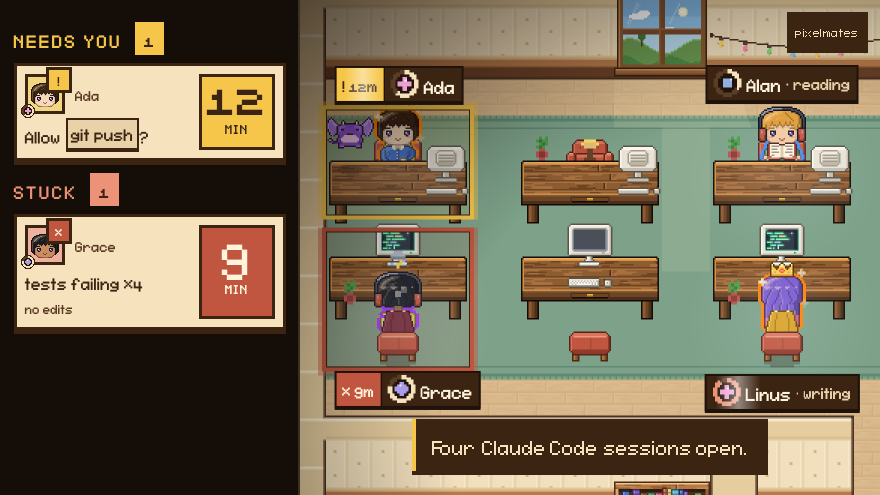
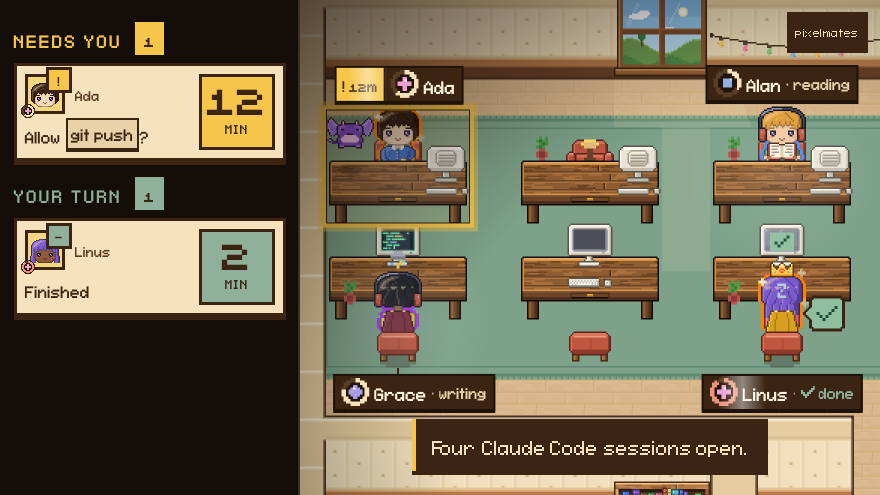
Show 1.0.5 in the README: new story GIF, rail shots, discovery keywords
The story GIF and the rail shot now show the question bubble and Your turn.
The README leads with the job (which session waits on you, and what it asked),
lists the features above the fold and adds a section for people who want to
hack on it. npm keywords match the GitHub topics.

diff --git a/README.md b/README.md
@@ -1,56 +1,58 @@
 # pixelmates
 
-Your Claude Code sessions as a pixel office. The crew keeps its names and levels between restarts, and a lit desk means a session is waiting on you.
+[![npm](https://img.shields.io/npm/v/@pixelmates/cli)](https://www.npmjs.com/package/@pixelmates/cli) [![MIT](https://img.shields.io/badge/license-MIT-green)](LICENSE) ![Node 22+](https://img.shields.io/badge/node-22%2B-blue)
+
+See which Claude Code session is waiting on you and what it asked. pixelmates draws every session, from every folder, as a character in a pixel office in your browser. The server runs on 127.0.0.1 and sends nothing off your machine.
 
 ```
 npx @pixelmates/cli
 ```
 
 <p align="center">
-  <img src="docs/images/story.gif" alt="Rail: Ada waited 12 minutes on Allow git push, Grace stuck on failing tests; Alan asks a question and his desk lights; Ada ships a PR, +120, level 13; P masks the text." width="880">
+  <img src="docs/images/story.gif" alt="Ada waited 12 minutes on Allow git push. Linus is done, a check beside his head, under Your turn. Alan ends his turn asking Start the week on Monday or Sunday? and a gold question mark appears beside his head. Ada ships a PR, +120, level 13. P masks the text." width="880">
 </p>
 
-pixelmates is a fork of [pixel-agents](https://github.com/pixel-agents-hq/pixel-agents) by Pablo De Lucca (MIT). The engine, the hooks and the layout editor are his work; the art is redrawn by code in this fork.
+Fork of [pixel-agents](https://github.com/pixel-agents-hq/pixel-agents) by Pablo De Lucca (MIT). The engine, the hooks and the layout editor are his work; the art is redrawn by code in this fork.
+
+## What it shows
+
+- **Needs you**: a permission prompt names its command; a question shows its own words, including one asked in plain text at the end of a turn. The desk lights up.
+- **Your turn**: a session that finished sits in its own list with a check beside its head. Its desk stays dark.
+- **Stuck, looping, stalled**: named in the rail, with the minutes.
+- **Inspector**: the whole question, then context, model, branch, cost, helpers and workflow phases.
+- **A crew**: names and levels survive restarts. XP comes only from commits, PRs, merges and green tests.
+- **P** masks every session string before you share your screen.
+- **A plugin** gives Claude read-only tools over your past sessions: "what did I ship this week?"
 
 ## Install and run
 
-Open the URL it prints (installed with `npm i -g @pixelmates/cli`, the command is `pixelmates`). The token in it is a secret. The server binds 127.0.0.1 and keeps its roster, layout, token and port in `~/.pixelmates/`.
+Open the URL it prints. The token in it is a secret. Installed with `npm i -g @pixelmates/cli`, the command is `pixelmates`. Roster, layout, token and port live in `~/.pixelmates/`.
 
-If you say yes at the consent prompt, it also adds a hook entry to `~/.claude/settings.json`, backed up once to `settings.json.pixelmates.backup`. Undo it with "Instant Detection (Hooks)" in Settings.
+If you say yes at the consent prompt, it adds a hook entry to `~/.claude/settings.json`, backed up once to `settings.json.pixelmates.backup`. Undo it with "Instant Detection (Hooks)" in Settings. Without hooks it reads transcripts, slower, and a question asked in plain text is not detected.
 
 Needs Node.js 22+. Step by step with screenshots: [docs/install.md](docs/install.md).
 
-## Coming from Pixel Agents
-
-Your office is copied from `~/.pixel-agents` on first run; nothing there is changed. Pixel Agents hooks are replaced only if you tick "Replace Pixel Agents hooks" in the consent dialog. If you keep both, uninstall pixelmates first, then Pixel Agents.
-
 ## Who needs you
 
-<img src="docs/images/needs-you.png" alt="The rail: Ada waits 12 minutes on Allow git push, Alan asks whether the date picker should start the week on Monday or Sunday, Grace is stuck on failing tests; their desks are lit in the office" width="880">
+<img src="docs/images/needs-you.png" alt="Rail: Needs you lists Ada, 12 minutes on Allow git push, and Alan asking whether the new date picker should start the week on Monday or Sunday; Stuck lists Grace, tests failing x4; Your turn lists Linus. In the office Ada's and Alan's desks are lit, Alan has a gold question mark beside his head, Linus a check" width="880">
 
-The rail lists the sessions waiting on you and lights their desks. A permission prompt names its command; a question shows its own words. A session that is stuck, looping or stalled is named too. A session that finished and waits at its prompt sits under Your turn, and its desk stays dark. In a browser tab the title counts the sessions that need you, `(2) pixelmates`, and the icon gets a gold dot.
+The rail ranks the sessions that need you: Needs you, then Stuck, then Your turn. A gold `?` beside a character's head means it asked you something; a sage check means it finished. The browser tab counts permission prompts and questions, `(2) pixelmates`, and its icon gets a gold dot.
 
-The arrow keys select, Enter inspects (so does a double-click on a ticket or an agent), P masks session text. A click on the selected agent keeps it selected; click the floor or press Esc to deselect.
+Arrow keys select. Enter or a double-click on a ticket or a character opens the inspector. Esc or a click on the floor deselects.
 
-## Privacy
-
-<img src="docs/images/privacy.png" alt="Left: rail with text. Right: the same rail after P, text masked" width="880">
-
-The MCP reads transcripts on this machine and redacts secrets. pixelmates sends nothing off the machine; what the MCP returns reaches Claude like any other tool result.
+<img src="docs/images/inspector-question.png" alt="Alan selected: the inspector shows his whole question and why it matters, then context, model, branch, session time and cost" width="880">
 
 ## A crew that remembers
 
 <img src="docs/images/crew.gif" alt="Ada commits and a +60 commit pop shows, then she opens a PR and a +120 PR pop shows, and her level goes from 12 to 13" width="880">
 
-Each session is a named character that keeps its level across restarts. XP comes only from what your transcripts prove: commit +60, PR created +120, PR merged +200, tests green after an edit +40.
+Each session is a named character that keeps its level across restarts. XP comes only from what your transcripts prove: commit +60, PR created +120, PR merged +200, tests green after an edit +40. Turns, tool calls and sub-agents pay nothing. `roster.json` holds counts only.
 
-Turns, tool calls and sub-agents pay nothing. `roster.json` holds counts only.
+## Privacy
 
-## Every session on one screen
+<img src="docs/images/privacy.png" alt="Left: rail with text. Right: the same rail after P, text masked" width="880">
 
-<img src="docs/images/inspector-question.png" alt="Alan selected: the inspector shows his whole question, Monday or Sunday for the date picker, and why it matters, then context, model, session time and cost" width="880">
-
-Enter opens the inspector: the whole question the rail cuts to two lines, then context, model, branch, cost, helpers and workflow phases. Tripwires are alerts, they block nothing.
+P masks session text; names, minutes and counters stay. The server binds 127.0.0.1 behind a token and sends nothing off the machine. The plugin's MCP reads transcripts on this machine and redacts secrets; what it returns reaches Claude like any other tool result.
 
 ## Ask your own history
 
@@ -70,11 +72,11 @@ Ask "what did I ship this week?" and get sessions with title, outcome, commits a
 
 Claude Code's agent view already lists background sessions that need input and lets you reply there. pixelmates does not replace it. It also covers sessions in your foreground terminals, which agent view shows only after you background them, flags sessions that are stuck or looping, and keeps a crew that earns levels. If a list is enough, use agent view.
 
-## Status
+## Coming from Pixel Agents
 
-A young fork with few users. File issues at [github.com/gustavoortega/pixelmates](https://github.com/gustavoortega/pixelmates/issues).
+Your office is copied from `~/.pixel-agents` on first run; nothing there is changed. Pixel Agents hooks are replaced only if you tick "Replace Pixel Agents hooks" in the consent dialog. If you keep both, uninstall pixelmates first, then Pixel Agents.
 
-## Development
+## Hack on it
 
 ```
 git clone https://github.com/gustavoortega/pixelmates.git
@@ -82,7 +84,9 @@ cd pixelmates && npm install && npm run build
 node dist/cli.js --host 127.0.0.1
 ```
 
-Dev scenes: `cd webview-ui && npx vite --host 127.0.0.1 --port 5199`, then open `http://127.0.0.1:5199/?scene=hero&hud=0` or `?scene=monitor`.
+Demo scenes with made-up data: `cd webview-ui && npx vite --host 127.0.0.1 --port 5199`, then open `http://127.0.0.1:5199/?scene=monitor` or `?scene=hero`. Only Claude Code is supported today. Its provider lives in `server/src/providers/hook/claude/`; another CLI would sit next to it. See [CONTRIBUTING.md](CONTRIBUTING.md).
+
+A young fork with few users. Bugs and ideas: [issues](https://github.com/gustavoortega/pixelmates/issues). What changed: [CHANGELOG.md](CHANGELOG.md).
 
 ## Credits and license
 
